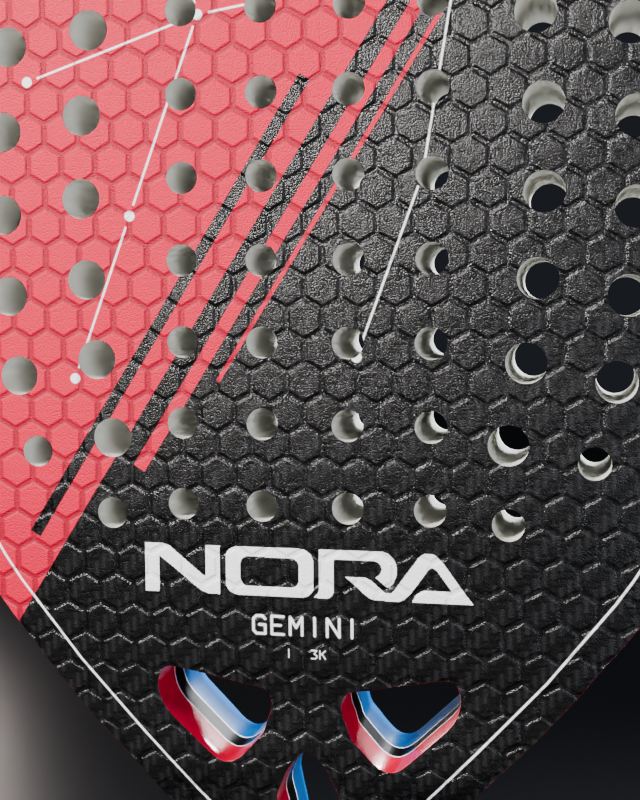
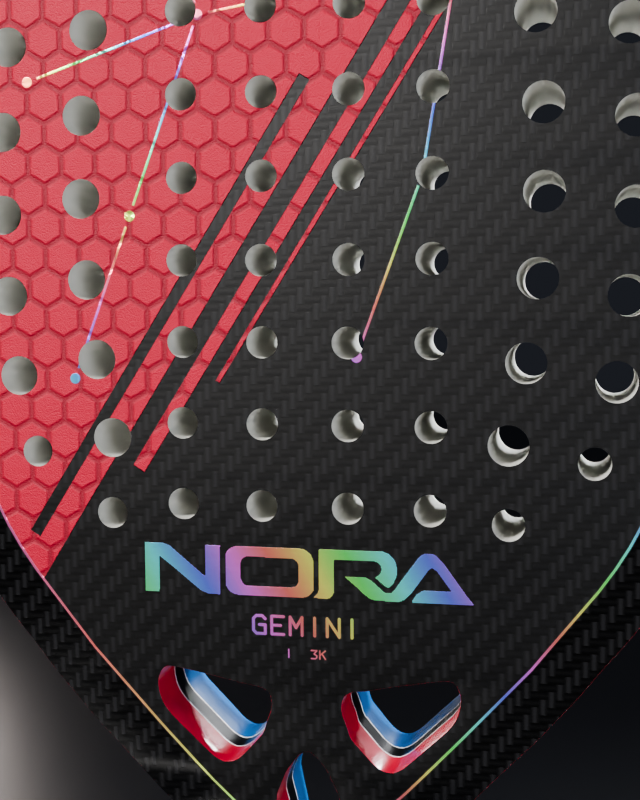
design(nora-gemini): v2 finishes - shiny border, sandy/matte mix, laser foil strokes
Claude-Session: https://claude.ai/code/session_012SfhKXHsrtVQKXrmq43Cme

diff --git a/design/nora-gemini/v2/gemini_v2_art.py b/design/nora-gemini/v2/gemini_v2_art.py
@@ -96,7 +96,10 @@ def make_art():
     lines = (1 - sm(0.22, 0.42, ld)) * sm(2.6, 3.0, near)
     P = np.c_[X.ravel(), Z.ravel()]
     edge = np.concatenate([seg_dist(P[i:i + 400000], OUTLINE[::2]) for i in range(0, len(P), 400000)]).reshape(H, W)
-    pin = sm(7.3, 7.5, edge) * (1 - sm(8.0, 8.2, edge))
+    pin = sm(12.3, 12.5, edge) * (1 - sm(13.0, 13.2, edge))
+    border = 1 - sm(12.6, 12.8, edge)  # shiny frame: fibre under gloss, no sand
+    hue = np.mod((X * 0.9 + Z * 0.5) / 55.0, 1.0)[..., None] * 6.0  # laser foil base tint
+    laser = 0.55 + 0.45 * np.clip(np.abs(np.mod(hue + [0, 4, 2], 6.0) - 3.0) - 1.0, 0, 1)
     shared = np.maximum.reduce([star, lines, pin])
 
     # weaves and relief
@@ -127,46 +130,47 @@ def make_art():
             shared, logo(0, 233, 84, sx), text("GEMINI", 0, 219.3, 4.6, 0.8, sx),
             text("I  3K" if face == 1 else "II  16K", 0, 212.2, 2.1, 0.42, sx)])
         bw, bh = (13.0, 11.0) if face == 1 else (17.0, 11.0)
-        qx, qz = np.abs(X) - bw / 2 + 2, np.abs(Z - 434) - bh / 2 + 2
+        qx, qz = np.abs(X) - bw / 2 + 2, np.abs(Z - 433) - bh / 2 + 2
         rr = np.hypot(np.maximum(qx, 0), np.maximum(qz, 0)) + np.minimum(np.maximum(qx, qz), 0) - 2
         ink = np.maximum(ink, 1 - sm(0.22, 0.42, np.abs(rr)))
         for bxm in ((0,) if face == 1 else (-2.6, 2.6)):
-            bar = np.maximum(np.abs(X - bxm) - 0.75, np.abs(Z - 434) - 3.0)
-            ser = np.maximum(np.abs(X - bxm) - 1.9, np.abs(np.abs(Z - 434) - 3.0) - 0.45)
+            bar = np.maximum(np.abs(X - bxm) - 0.75, np.abs(Z - 433) - 3.0)
+            ser = np.maximum(np.abs(X - bxm) - 1.9, np.abs(np.abs(Z - 433) - 3.0) - 0.45)
             ink = np.maximum(ink, 1 - sm(-0.1, 0.1, np.minimum(bar, ser)))
+        a = ink
         ink = ink[..., None]
+        bd = border[..., None]
         if face == 1:
-            p = paint1[..., None]
-            shade = (0.8 + 0.2 * hexh)[..., None]
-            col = np.where(p, np.array(RED, np.float32) * shade, (w3 * (0.85 + 0.15 * hexh))[..., None] * [1, 1, 1.04])
-            inkc = np.array((0.96, 0.96, 0.96), np.float32)
-            rough = np.where(paint1, 0.58, 0.3)
+            sandy = paint1 * (1 - border)
+            carbon = (w3 * (0.85 + 0.15 * hexh * sandy))[..., None] * [1, 1, 1.04]
+            col = np.where(paint1[..., None], np.array(RED, np.float32) * (0.72 + 0.2 * hexh)[..., None], carbon)
+            col = col * (1 - bd) + (w3[..., None] * [1, 1, 1.04]) * bd
+            rough = np.where(paint1, 0.62, 0.46) * (1 - border) + 0.07 * border
             metal = np.zeros((H, W), np.float32)
-            height = 0.75 * hexh + 0.04 * np.where(warp3, px3, pz3)
+            height = 0.75 * hexh * sandy + 0.04 * np.where(warp3, px3, pz3)
         else:
-            p = ~paint1[..., None]
-            tint = np.array(BLUE, np.float32) * 1.75
-            col = np.where(p, np.clip(w16[..., None] * tint, 0, 1), w16[..., None] * [0.93, 0.95, 1.0])
-            inkc = np.where(p, np.array((0.97, 0.97, 0.97), np.float32), np.array(NAVY, np.float32))
-            rough = np.where(~paint1, 0.2, 0.3)
+            sandy = (~paint1) * (1 - border)
+            raw = w16[..., None] * [0.93, 0.95, 1.0]
+            col = np.where(~paint1[..., None], np.clip(w16[..., None] * np.array(BLUE, np.float32) * 1.3, 0, 1), raw)
+            col = col * (1 - bd) + raw * bd
+            rough = np.where(~paint1, 0.5, 0.42) * (1 - border) + 0.2 * border
             metal = np.ones((H, W), np.float32)
             height = 0.5 * np.where(warp16, px16, pz16)
-        col = col * (1 - ink) + inkc * ink
-        a = ink[..., 0]
-        rough = rough * (1 - a) + 0.42 * a
-        metal = metal * (1 - a)
+        col = col * (1 - ink) + laser * ink
+        rough = rough * (1 - a) + 0.3 * a
+        metal = metal * (1 - a) + a
         height = np.clip(height + 0.12 * a, 0, 1)
-        out[face] = (col.astype(np.float32), np.dstack([height, rough, metal]).astype(np.float32))
+        grit = sandy * (1 - a)
+        out[face] = (np.dstack([col, a]).astype(np.float32), np.dstack([height, rough, metal, grit]).astype(np.float32))
     return out, (W, H)
 
 
 def to_image(name, arr, wh, colorspace):
     W, H = wh
-    img = bpy.data.images.new(name, W, H, alpha=False)
+    img = bpy.data.images.new(name, W, H, alpha=True)
     img.colorspace_settings.name = colorspace
-    rgba = np.ones((H, W, 4), np.float32)
-    rgba[..., :3] = arr
-    img.pixels.foreach_set(rgba.ravel())
+    img.alpha_mode = "CHANNEL_PACKED"
+    img.pixels.foreach_set(np.ascontiguousarray(arr, np.float32).ravel())
     img.pack()
     return img
 
@@ -194,7 +198,23 @@ def face_mat(name, col_img, dat_img, grit, bump_mm, coat):
     tco = nt.nodes.new("ShaderNodeTexCoord")
     nt.links.new(tco.outputs["Object"], vor.inputs["Vector"])
     b2 = nt.nodes.new("ShaderNodeBump")
-    b2.inputs["Strength"].default_value = grit
+    gm = nt.nodes.new("ShaderNodeMath")  # sand only where the grit mask (data alpha) says so
+    gm.operation = "MULTIPLY"
+    gm.inputs[1].default_value = grit
+    nt.links.new(td.outputs["Alpha"], gm.inputs[0])
+    nt.links.new(gm.outputs[0], b2.inputs["Strength"])
+    tf = nt.nodes.new("ShaderNodeMath")  # laser foil: thin-film iridescence where colour alpha = 1
+    tf.operation = "MULTIPLY"
+    tf.inputs[1].default_value = 520.0
+    nt.links.new(tc.outputs["Alpha"], tf.inputs[0])
+    nt.links.new(tf.outputs[0], b.inputs["Thin Film Thickness"])
+    b.inputs["Thin Film IOR"].default_value = 1.45
+    em = nt.nodes.new("ShaderNodeMath")  # foil keeps a little glow so it reads in dark reflections
+    em.operation = "MULTIPLY"
+    em.inputs[1].default_value = 0.4
+    nt.links.new(tc.outputs["Alpha"], em.inputs[0])
+    nt.links.new(tc.outputs["Color"], b.inputs["Emission Color"])
+    nt.links.new(em.outputs[0], b.inputs["Emission Strength"])
     b2.inputs["Distance"].default_value = 0.12 * MM
     b2.invert = True
     nt.links.new(vor.outputs["Distance"], b2.inputs["Height"])
@@ -213,7 +233,7 @@ def build_all():
         face_mat("MAT_Face_I_3K_Red_Sand3D", to_image("FaceI_color", art[1][0], wh, "sRGB"),
                  to_image("FaceI_height_rough_metal", art[1][1], wh, "Non-Color"), 0.9, 0.35, 0.0),
         face_mat("MAT_Face_II_16K_Alu_Blue_FineSand", to_image("FaceII_color", art[2][0], wh, "sRGB"),
-                 to_image("FaceII_height_rough_metal", art[2][1], wh, "Non-Color"), 0.3, 0.06, 0.6),
+                 to_image("FaceII_height_rough_metal", art[2][1], wh, "Non-Color"), 0.35, 0.06, 0.0),
         mat("MAT_EVA_Core", (0.86, 0.86, 0.84), 0.85),
         mat("MAT_Rim_Red", RED, 0.32, 0, 0.5), mat("MAT_Rim_Blue", BLUE, 0.32, 0, 0.5),
         mat("MAT_Rim_Pinstripe", (0.95, 0.95, 0.95), 0.35), mat("MAT_Rim_Carbon", (0.045, 0.045, 0.05), 0.28, 0, 0.6),

diff --git a/design/nora-gemini/v2/gemini_v2_body.py b/design/nora-gemini/v2/gemini_v2_body.py
@@ -149,6 +149,7 @@ def build_body():
     bpy.data.meshes.remove(cme)
     bpy.data.meshes.remove(me)
     me2.name = "Gemini_Body"
+    me2.materials.clear()  # drop the empty slot inherited from the curve before indexing
     # rim colour bands
     bm = bmesh.new()
     bm.from_mesh(me2)

diff --git a/design/nora-gemini/v2/README.md b/design/nora-gemini/v2/README.md
@@ -5,8 +5,12 @@ Same OXDOG Ultimate Pro Light mould as v1.
 
 - A single diagonal cut runs through the racket. Where Face I is painted red, Face II is raw
   aluminized 16K; where Face I shows raw 3K carbon, Face II is tinted blue.
-- Face I: 3K twill, red matte paint, sand grit + 3D hexagon relief.
-- Face II: 16K aluminized weave, blue candy tint, fine sand, glossy coat.
+- Three finishes on each face:
+  - **Shiny** border, 13 mm wide: the fibre under gloss (3K carbon on Face I, 16K aluminized on Face II).
+  - **Sandy + matte** inside: the painted zone is sandy (red with 3D hexagon relief on Face I, blue
+    with fine sand on Face II); the raw-fibre zone is smooth matte.
+  - **Laser** (holographic foil) on the strokes: NORA logo, GEMINI, the constellation, the keyline
+    between border and face, and the I / II badge.
 - Gemini constellation (Castor and Pollux) as fine line art, NORA logo, I / II badge, red | black | blue rim.
 
 Files: `gemini_v2_data.py` (mould data), `gemini_v2_body.py` (geometry), `gemini_v2_art.py`
